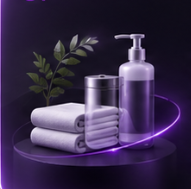
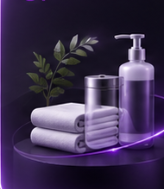
feat: update supply art images and adjust CSS for improved layout and visibilityC

diff --git a/src/components/home/ecosystem/ecosystem-stories.css b/src/components/home/ecosystem/ecosystem-stories.css
@@ -319,12 +319,12 @@
 
 .eco-supply-media {
   position: absolute;
-  left: -6%;
+  left: -4%;
   top: 18%;
-  width: 62%;
+  width: 54%;
   height: 62%;
   z-index: 0;
-  overflow: visible;
+  overflow: hidden;
   pointer-events: none;
   transition: filter 320ms ease;
 }
@@ -436,9 +436,9 @@
 
 .eco-supply-copy {
   position: absolute;
-  right: 14px;
+  right: 12px;
   top: 44%;
-  left: 56%;
+  left: 58%;
   z-index: 3;
   display: grid;
   gap: 5px;
